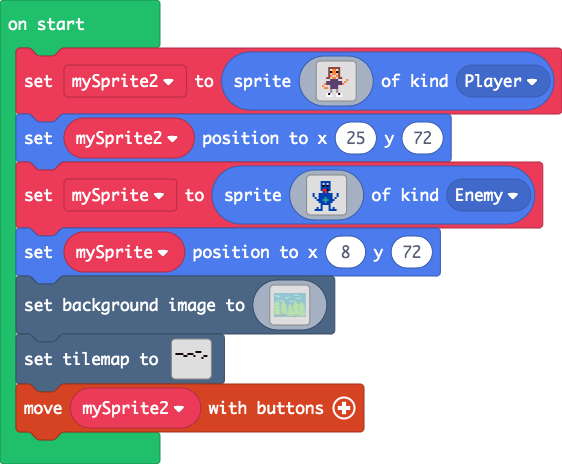
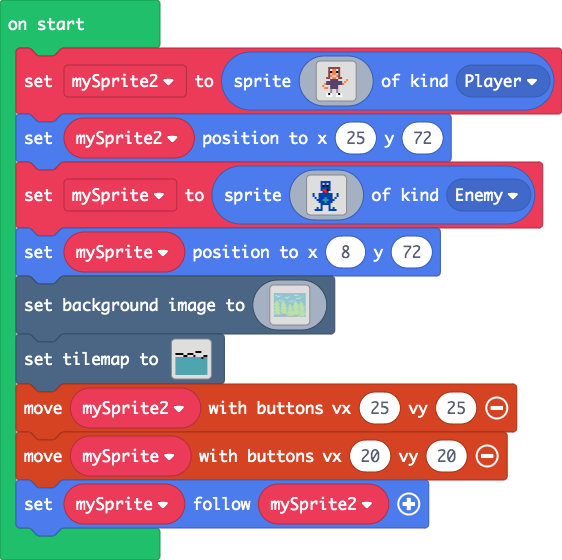
Update main.blocks, main.ts

diff --git a/main.ts b/main.ts
@@ -180,7 +180,7 @@ scene.setBackgroundImage(img`
 6 6 6 6 6 6 6 6 6 6 6 6 e e e e e e e e 6 6 6 6 6 6 6 6 6 6 6 6 6 6 6 6 6 6 6 6 6 6 6 6 6 e e 4 e e 4 e 6 6 6 6 6 6 6 6 6 6 6 6 6 6 6 6 6 6 6 6 6 6 6 6 6 6 e e e e e 4 4 4 6 6 6 6 6 6 6 6 6 6 6 6 6 6 6 6 6 6 6 6 e 4 4 4 4 e e 6 6 6 6 6 6 6 6 6 6 6 6 6 6 6 6 6 6 6 6 e e 4 4 4 e 6 6 6 6 6 6 6 6 6 6 6 6 6 6 6 6 6 6 6 6 6 
 `)
 tiles.setTilemap(tiles.createTilemap(
-            hex`1000100000000000000000000000000000000000000000000000000000000000000000000000000000000000000000000000000000000000000000000000000000000000000000000000000000000404040000000404040400000404040000000000000000000000040400000004000000000404000000000000000000000000000400000000000000000000000000000000000000000000000000000000000000000000000000000000000000000000000000000000000000000000000000000000000000000000000000000000000000000000000000000000000000000000000000000000000000000000000000000000000000000000000000000000000000000000`,
[1 lines of base64/hex data omitted]
             img`
 . . . . . . . . . . . . . . . . 
 . . . . . . . . . . . . . . . . 
@@ -188,8 +188,8 @@ tiles.setTilemap(tiles.createTilemap(
 . . . . . . . . . . . . . . . . 
 . . . . . . . . . . 2 2 2 . . . 
 2 2 2 2 . . 2 2 2 . 2 . 2 . . . 
-. . . 2 . . 2 . 2 . 2 . 2 . 2 2 
-. . . . . . . . 2 . 2 . 2 . 2 . 
+. . . 2 2 2 2 . 2 2 2 . 2 . 2 2 
+. . . . . . . . 2 . 2 . 2 2 2 . 
 . . . . . . . . . . . . . . . . 
 . . . . . . . . . . . . . . . . 
 . . . . . . . . . . . . . . . . 
@@ -199,7 +199,9 @@ tiles.setTilemap(tiles.createTilemap(
 . . . . . . . . . . . . . . . . 
 . . . . . . . . . . . . . . . . 
 `,
-            [myTiles.tile0,sprites.builtin.forestTiles1,sprites.builtin.forestTiles2,sprites.castle.tilePath1,sprites.builtin.forestTiles18,sprites.builtin.forestTiles10],
+            [myTiles.tile0,sprites.builtin.forestTiles1,sprites.builtin.forestTiles2,sprites.castle.tilePath1,sprites.builtin.forestTiles18,sprites.builtin.forestTiles10,sprites.castle.tileGrass3,sprites.castle.tileDarkGrass1,sprites.castle.tilePath9,sprites.builtin.forestTiles3,sprites.castle.tileDarkGrass2,sprites.builtin.forestTiles6],
             TileScale.Sixteen
         ))
-controller.moveSprite(mySprite2)
+controller.moveSprite(mySprite2, 25, 25)
+controller.moveSprite(mySprite, 20, 20)
+mySprite.follow(mySprite2)
